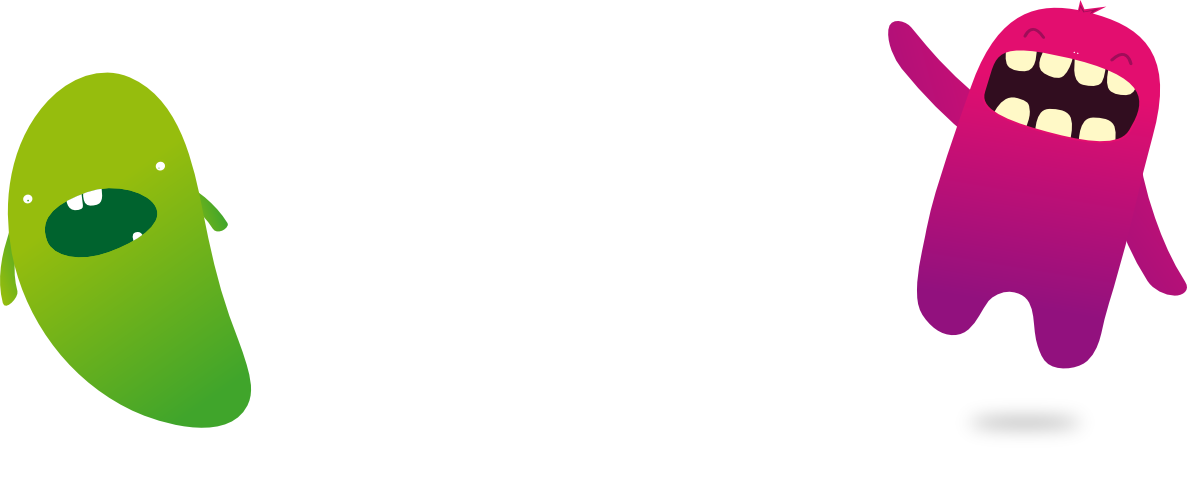
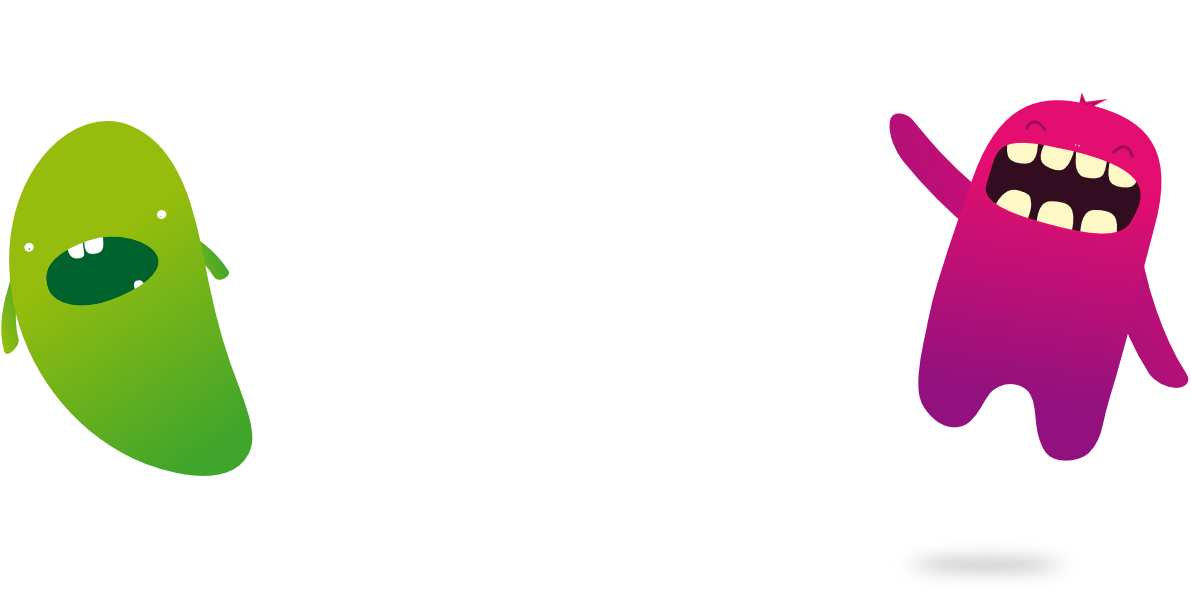
modifico imagenes. agrego css

diff --git a/style/style.css b/style/style.css
@@ -1,13 +1,29 @@
 body {
-	background: transparent;
-	padding: 30px;
+	background: #EBEBEB;
+	padding: 0px 30px 30px 30px;
 	font-family: 'Lucida Sans Unicode', 'Lucida Grande', sans-serif;
+	color: #333;
 }
 
 .logo {
 	margin-bottom: 30px;
+	text-align: left;
+	padding-left: 206px;
 }
 
+
+
+center.top {
+	background: url('los-salvajes.png') no-repeat scroll transparent;
+	
+}
+
+
+/*=======================
+++++ TEXTOS
+=======================*/
+
+/* títulos */
 
 h1 {
 	font-family: 'Open Sans Condensed', sans-serif;
@@ -15,34 +31,37 @@ h1 {
 	font-size: 40px;
 }
 
-#players {
-	
-/*	background: url('mons-chico.png') no-repeat transparent;*/
 
-}
-
-center.top {
-	background: url('los-salvajes.png') no-repeat scroll transparent;
-	padding-top: 80px;
-}
+/*=======================
+++++ BUSCADOR
+=======================*/
 
 input#search {
 	border: 1px solid #ccc;
 	padding: 8px;
 	font-size: 14px;
+	-webkit-border-radius: 03px;
+	-moz-border-radius: 03px;
+	border-radius: 03px;
 }
 
 input#search[type='button'] {
 	background: #23a4d4;
-	border: 1px solid #13b1ec;
+	border: 1px solid #167be3;
 	color: #fff;
 	text-transform: uppercase;
 	-webkit-border-radius: 03px;
 	-moz-border-radius: 03px;
 	border-radius: 03px;
-	padding: 9px;
+	padding: 8px;
 	font-size: 12px;
 }
+
+input#search[type='button']:hover {
+	background: #167be3;
+	border: 1px solid #007eff;
+}
+
 
 .buscador {
 	margin-top: 20px;
@@ -53,6 +72,10 @@ input#search[type='button'] {
 	width: 960px;
 	margin: 0px auto;
 }
+
+/*=========================
+++++ RESULTADOS DE BÚSQUEDA
+=========================*/
 
 ul#listita li {
 	list-style-type: none;
